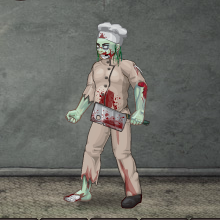
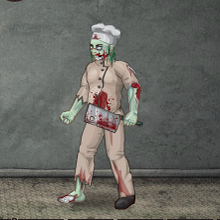
новые картиночки

diff --git a/js/data/mobofile.js b/js/data/mobofile.js
@@ -276,7 +276,7 @@ mobs = {
         "level": 1,
         "avatar": 341,
         "doll": "mob_human_male",
-        "picture": "mob_human_male",
+        "picture": "10rats",
         "minhit": 5,
         "maxhit": 9,
         "hitsound": "glass",
@@ -667,7 +667,7 @@ mobs = {
         "level": 10,
         "avatar": 22,
         "doll": "mob_human_male",
-        "picture": "mob_human_male",
+        "picture": "hector",
         "minhit": 7,
         "maxhit": 12,
         "dodge": 10,
@@ -2036,7 +2036,7 @@ mobs = {
         "level": 15,
         "avatar": 8,
         "doll": "mob_elv_male",
-        "picture": "mob_elv_male",
+        "picture": "ohrana",
         "minhit": 100,
         "maxhit": 150,
         "dodge": 50,
@@ -6557,7 +6557,7 @@ mobs = {
         "level": 16,
         "avatar": 1017,
         "doll": "mob_elv_male",
-        "picture": "mob_elv_male",
+        "picture": "maniak",
         "minhit": 150,
         "maxhit": 190,
         "dodge": 75,
@@ -6608,7 +6608,7 @@ mobs = {
         "level": 14,
         "avatar": 55,
         "doll": "mob_demon_male",
-        "picture": "mob_demon_male",
+        "picture": "agi_14",
         "minhit": 70,
         "maxhit": 130,
         "dodge": 80,
@@ -6657,7 +6657,7 @@ mobs = {
         "level": 14,
         "avatar": 5,
         "doll": "mob_elv_male",
-        "picture": "mob_elv_male",
+        "picture": "stam_14",
         "minhit": 90,
         "maxhit": 110,
         "dodge": 25,
@@ -6706,7 +6706,7 @@ mobs = {
         "level": 14,
         "avatar": 139,
         "doll": "mob_human_male",
-        "picture": "mob_human_male",
+        "picture": "str_14",
         "minhit": 110,
         "maxhit": 150,
         "dodge": 15,
@@ -6755,7 +6755,7 @@ mobs = {
         "level": 13,
         "avatar": 136,
         "doll": "mob_human_female",
-        "picture": "mob_human_female",
+        "picture": "str_13",
         "minhit": 100,
         "maxhit": 130,
         "dodge": 15,
@@ -6800,7 +6800,7 @@ mobs = {
         "level": 12,
         "avatar": 138,
         "doll": "mob_human_male",
-        "picture": "mob_human_male",
+        "picture": "str_12",
         "minhit": 90,
         "maxhit": 120,
         "dodge": 15,
@@ -6833,6 +6833,7 @@ mobs = {
             }
         },
         "location": "pant",
+        "hidden": 1
     },
     "106": {
         "id": 106,
@@ -6841,7 +6842,7 @@ mobs = {
         "level": 13,
         "avatar": 134,
         "doll": "mob_elv_male",
-        "picture": "mob_elv_male",
+        "picture": "agi_13",
         "minhit": 60,
         "maxhit": 110,
         "dodge": 70,
@@ -6886,7 +6887,7 @@ mobs = {
         "level": 12,
         "avatar": 124,
         "doll": "mob_demon_female",
-        "picture": "mob_demon_female",
+        "picture": "agi_12",
         "minhit": 50,
         "maxhit": 100,
         "dodge": 70,
@@ -6919,6 +6920,7 @@ mobs = {
             }
         },
         "location": "pant",
+        "hidden": 1
     },
     "108": {
         "id": 108,
@@ -6927,7 +6929,7 @@ mobs = {
         "level": 13,
         "avatar": 127,
         "doll": "mob_demon_male",
-        "picture": "mob_demon_male",
+        "picture": "stam_13",
         "minhit": 70,
         "maxhit": 100,
         "dodge": 25,
@@ -6972,7 +6974,7 @@ mobs = {
         "level": 12,
         "avatar": 58,
         "doll": "mob_elv_male",
-        "picture": "mob_elv_male",
+        "picture": "stam_12",
         "minhit": 60,
         "maxhit": 90,
         "dodge": 20,
@@ -7005,6 +7007,7 @@ mobs = {
             }
         },
         "location": "pant",
+        "hidden": 1
     },
     "110": {
         "id": 110,
@@ -7013,7 +7016,7 @@ mobs = {
         "level": 15,
         "avatar": 9,
         "doll": "mob_human_male",
-        "picture": "mob_human_male",
+        "picture": "10rats",
         "minhit": 150,
         "maxhit": 200,
         "dodge": 50,
@@ -7064,7 +7067,7 @@ mobs = {
         "level": 15,
         "avatar": 137,
         "doll": "mob_human_male",
-        "picture": "mob_human_male",
+        "picture": "legenda_troi",
         "minhit": 100,
         "maxhit": 120,
         "dodge": 30,
@@ -7116,7 +7119,7 @@ mobs = {
         "level": 14,
         "avatar": 3,
         "doll": "mob_demon_male",
-        "picture": "mob_demon_male",
+        "picture": "MBT",
         "minhit": 120,
         "maxhit": 155,
         "dodge": 20,
@@ -14050,7 +14053,7 @@ mobs = {
         "level": 19,
         "avatar": 55,
         "doll": "mob_demon_male",
-        "picture": "mob_demon_male",
+        "picture": "agi_morf",
         "minhit": 300,
         "maxhit": 325,
         "dodge": 75,
@@ -14091,7 +14094,7 @@ mobs = {
         "level": 19,
         "avatar": 181,
         "doll": "mob_demon_female",
-        "picture": "mob_demon_female",
+        "picture": "stam_morf",
         "minhit": 375,
         "maxhit": 410,
         "dodge": 45,
@@ -14131,7 +14134,7 @@ mobs = {
         "level": 19,
         "avatar": 139,
         "doll": "mob_human_male",
-        "picture": "mob_human_male",
+        "picture": "str_morf",
         "minhit": 460,
         "maxhit": 480,
         "dodge": 15,
@@ -14173,7 +14176,7 @@ mobs = {
         "level": 20,
         "avatar": 298,
         "doll": "mob_human_male",
-        "picture": "mob_human_male",
+        "picture": "chak",
         "minhit": 10,
         "maxhit": 10,
         "dodge": 99,
@@ -14194,7 +14197,7 @@ mobs = {
         "level": 20,
         "avatar": 134,
         "doll": "mob_elv_male",
-        "picture": "mob_elv_male",
+        "picture": "str_obsid",
         "minhit": 460,
         "maxhit": 550,
         "dodge": 15,
@@ -14238,7 +14241,7 @@ mobs = {
         "level": 20,
         "avatar": 131,
         "doll": "mob_elv_female",
-        "picture": "mob_elv_female",
+        "picture": "agi_obsid",
         "minhit": 560,
         "maxhit": 580,
         "dodge": 70,
@@ -14282,7 +14285,7 @@ mobs = {
         "level": 20,
         "avatar": 61,
         "doll": "mob_human_male",
-        "picture": "mob_human_male",
+        "picture": "stam_obsid",
         "minhit": 560,
         "maxhit": 580,
         "dodge": 70,
@@ -14326,7 +14329,7 @@ mobs = {
         "level": 20,
         "avatar": 134,
         "doll": "mob_elv_male",
-        "picture": "mob_elv_male",
+        "picture": "str_gold",
         "minhit": 760,
         "maxhit": 970,
         "dodge": 15,
@@ -14370,7 +14373,7 @@ mobs = {
         "level": 20,
         "avatar": 125,
         "doll": "mob_demon_female",
-        "picture": "mob_demon_female",
+        "picture": "agi_gold",
         "minhit": 860,
         "maxhit": 920,
         "dodge": 80,
@@ -14414,7 +14417,7 @@ mobs = {
         "level": 20,
         "avatar": 131,
         "doll": "mob_elv_female",
-        "picture": "mob_elv_female",
+        "picture": "stam_gold",
         "minhit": 660,
         "maxhit": 980,
         "dodge": 70,
@@ -14458,7 +14461,7 @@ mobs = {
         "level": 20,
         "avatar": 128,
         "doll": "mob_demon_male",
-        "picture": "mob_demon_male",
+        "picture": "fiokl",
         "minhit": 570,
         "maxhit": 730,
         "dodge": 70,

diff --git a/js/mobs.js b/js/mobs.js
@@ -13,7 +13,7 @@ function makeMobBlock(mob) {
     p += '<h4 class="mob_level">' + mob.level + '</h4>';
     p += '</div>';
     p+= '<div class="empty_space"></div>'
-    p += '<img class="mobpic click_to_hide" src="img/mobs/' + mob.doll + '.png"  onerror="imgError(this)"/>';
+    p += '<img class="mobpic click_to_hide" src="img/mobs/' + mob.picture + '.png"  onerror="imgError(this)"/>';
     p += getMobStats(mob);
     p += '<div class="mob_locations">';
     p += '<p> Места обитания: </p>';
